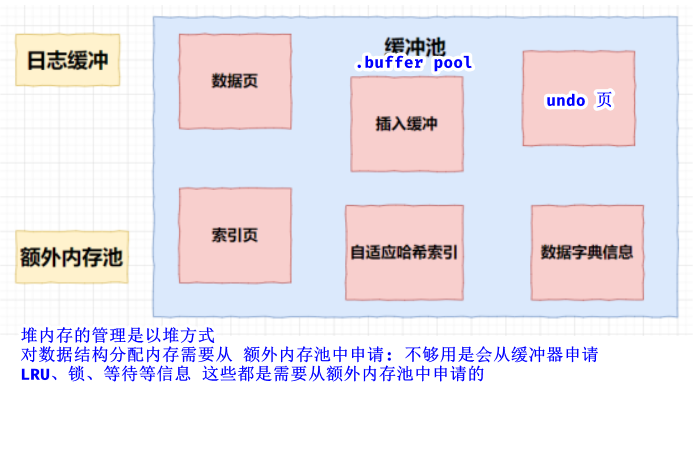
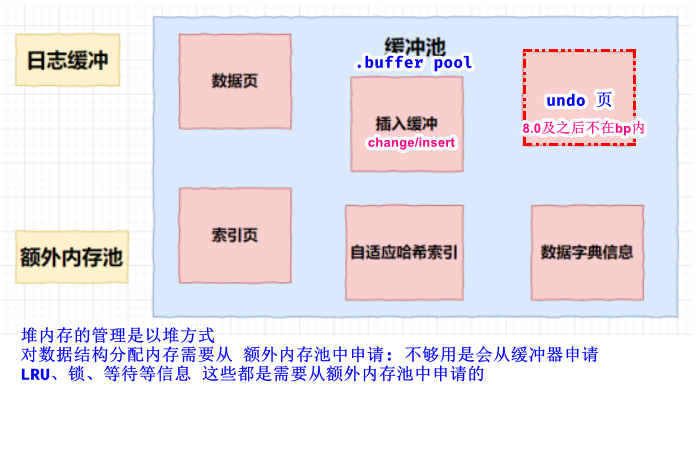
feat(mysql): add innodb and buffer note

diff --git a/language/mysql/v2/06.engine/buffer/bufferpool.md b/language/mysql/v2/06.engine/buffer/bufferpool.md
@@ -1,4 +1,4 @@
-## pool buffer
+## buffer pool
 
 ![avatar](/static/image/mysql/mysql-engine-layout.png)
 
@@ -8,26 +8,38 @@
 
    - 存放的是数据与索引: **索引并不是都在内存中**
    - 缓存页{16KB}{数据页和索引页}: bp 数据的基本单元 + `磁盘数据 按照数据页组织: 16KB`;
-   - 描述数据{800byte}: 所属表空间, 数据页的编号, bp 中的地址
-   - 相关的数据结构
+   - 描述数据{800byte}: 所属表空间, 数据页的编号, bp 中的地址, next free 节点, netx flush 节点, netx lru 节点
+   - 相关的数据结构: 都是双向链表
      1. Free 链表{双向}: 存放空闲缓存页
      2. 缓存页哈希表: 快速定位缓存页{key(表空间号+数据页号)-value(缓存页地址)}
+        ![avatar](/static/image/mysql/innodb-bp-free.png)
      3. Flush 链表: 存放脏页
      4. LRU 链表: 内存不够时淘汰方式 + 优化{数据冷热区分}
    - 预读机制: 调用存储引擎时将下次可能用到的数据和索引加载到 Buffer Pool
 
-2. 作用(加速-快): 查询操作(bp) + 更新(bp+change-buffer+redolog)
+2. LRU 流程(mysql 版本): 数据先进 old, 待满 1s 且被再次访问时移入 young 头部
+
+   - 默认按照 5:3 的比例把整个 LRU 链表分成了 young 区域和 old 区域
+   - 要访问数据页 P3, 由于 P3 在 young 区域, 将其移到链表头部, 变成状态 2
+   - 之后要访问一个新的不存在于当前链表的数据页, 这时候依然是淘汰掉数据页 Pm, 但是新插入的数据页 Px, 是**放在 LRU_old 处**
+   - 处于 old 区域的数据页, 每次被访问的时候都要做下面这个判断
+     1. 若这个数据页在 LRU 链表中存在的时间超过了 1 秒, 就把它移动到链表头部
+     2. 如果这个数据页在 LRU 链表中存在的时间短于 1 秒, 位置保持不变
+
+   ![avatar](/static/image/mysql/mysql-pb-o-y.png)
+
+3. 作用(加速-快): 查询操作(bp) + 更新(bp+change-buffer+redolog)
 
    - 读和写操作都可以先操作 bp 内存, 如果没有则到磁盘里去加载
    - 也就是说[change buffer]: `把xx更新为xx, 或插入xx, 修改内存数据{则变为脏页} + 写 log 文件{redo/bin}后即可提交, 不需要获取数据页`{唯一索引除外}
 
-3. 内存命中率(内部是热点数据): 99%+ 才是健康的
+4. 内存命中率(内部是热点数据): 99%+ 才是健康的
    ```sql
    show engine innodb status;
    show status like 'Innodb_buffer_pool_%';
    show status like  'innodb%read%';
    ```
-4. bp 参数及监控(https://hdm.console.aliyun.com/dbMonitor/MySQL#/performance/instance/rm-2zefr83ok57101uxm/detail)
+5. bp 参数及监控(https://hdm.console.aliyun.com/dbMonitor/MySQL#/performance/instance/rm-2zefr83ok57101uxm/detail)
 
    - 大小: `innodb_buffer_pool_size=3/4 * instance_mem` + 这个值一般很小需要重新设置
    - 个数: `innodb_buffer_pool_instances={LEAST(DBInstanceClassMemory/1G, 8)}`
@@ -70,17 +82,6 @@
 
    - pb 使用率: innodb_buffer_pool_pages_data / (innodb_buffer_pool_pages_data + innodb_buffer_pool_pages_free)
 
-5. LRU 流程(mysql 版本): 数据先进 old, 待满 1s 且被再次访问时移入 young 头部
-
-   - 默认按照 5:3 的比例把整个 LRU 链表分成了 young 区域和 old 区域
-   - 要访问数据页 P3, 由于 P3 在 young 区域, 将其移到链表头部, 变成状态 2
-   - 之后要访问一个新的不存在于当前链表的数据页, 这时候依然是淘汰掉数据页 Pm, 但是新插入的数据页 Px, 是**放在 LRU_old 处**
-   - 处于 old 区域的数据页, 每次被访问的时候都要做下面这个判断
-     1. 若这个数据页在 LRU 链表中存在的时间超过了 1 秒, 就把它移动到链表头部
-     2. 如果这个数据页在 LRU 链表中存在的时间短于 1 秒, 位置保持不变
-
-   ![avatar](/static/image/mysql/mysql-pb-o-y.png)
-
 6. 相关场景说明
 
    - update
@@ -88,6 +89,11 @@
    - query
    - delete
    - bnl 下大表冷数据: io/cpu/mem/pb`{数据量小于 3/8 时-会被放入 young 区 | 大于 3/8 时会导致 young 区数据不能正常淘汰}`
+
+7. 热点数据呗淘汰场景
+
+   - 预读机制: 是指 MySQL 加载数据页时, 可能会把它相邻的数据页一并加载进来(局部性原理)
+   - 全表扫描
 
 ---
 

diff --git a/language/mysql/v2/06.engine/innodb.md b/language/mysql/v2/06.engine/innodb.md
@@ -12,12 +12,16 @@
 
 3. 内容
 
-   - 后台线程: 7 个
-   - buffer pool: redolog/undolog/change buffer | 数据/缓存页 | 链表(LRU)
-   - additional memory pool
+   ![avatar](/static/image/mysql/mysql-innodb-architecture-5.7.png)
+   ![avatar](/static/image/mysql/mysql-innodb-architecture-8.png)
 
-   ![avatar](/static/image/mysql/mysql-innodb-memory.png)
-   ![avatar](/static/image/mysql/mysql-engine-layout.png)
+   - 后台线程: 7 个
+   - buffer pool: ahi | insert/change buffer | 数据/缓存页(数组字典信息) | 链表(LRU) | 其他信息(锁)
+   - redolog
+   - undolog
+   - additional memory pool
+     ![avatar](/static/image/mysql/mysql-innodb-memory.png)
+     ![avatar](/static/image/mysql/mysql-engine-layout.png)
 
 4. innodb flow
 
@@ -27,7 +31,7 @@
      2. 写 redolog 的 prepare 状态
      3. 写 binlog
      4. 调用存储引擎层, 提交事务, 将 redolog 修改为 commit 状态
-   - 所以缓冲池是占内存最大的一部分: 作用是存放各种数据的缓存{**索引页/数据页**/undo 页/插入缓冲/自适应哈希索引/InnoDB 存储的锁信息和数字字典信息}
+   - 所以缓冲池是占内存最大的一部分: 作用是存放各种数据的缓存{**索引页/数据页**/~~undo 页~~/插入缓冲/自适应哈希索引/InnoDB 存储的锁信息和数字字典信息}
 
 ### 后台线程
 
@@ -65,3 +69,10 @@
 7. _自适应哈希索引_
    - 哈希索引的查找复杂度仅为 O(1): 所以速度非常快, 常常用于连接操作
    - 自适应的意思是: InnoDB 存储引擎会监控对表上索引的查找, 如果观察到建立索引表可以带来速度的提升就建立哈希索引
+
+---
+
+## reference
+
+1. https://blog.csdn.net/qq_34408516/article/details/123296196
+2. https://dev.mysql.com/doc/refman/8.0/en/innodb-storage-engine.html

diff --git a/language/mysql/v2/01.basic/09.log.md b/language/mysql/v2/01.basic/09.log.md
@@ -7,8 +7,8 @@
 ![avatar](/static/image/mysql/log-mysql.png)
 
 1. [innodb]undo-log: idb 文件
-2. [innodb]redo-log
-3. [mysql-server]bin-log: 数据备份相关, 需要自己开启, 并指定模式[语句, **row**, mixed]
+2. [innodb]redo-log: **崩溃恢复能力**
+3. [mysql-server]bin-log: **群架构的数据一致性**, 数据备份相关, 需要自己开启, 并指定模式[语句, **row**, mixed]
 4. [mysql-server]slow-log: 慢查询日志, 需要自己开启
 5. [mysql-server]relay-log: slave
 6. [mysql-server]log-error`{log_error}`: 错误信息相关
@@ -78,6 +78,8 @@
    - redo log 并没有这个要求, redo log buffer 中的日志可以在其他事务提交的时候可以被一起写到磁盘中
    - redo log 是以 page 页格式存储的: page 格式, 天生就是共有的
 
+   ![avatar](/static/image/mysql/log-bin-redo-pc.png)
+
 ### [组提交](https://blog.csdn.net/weixin_34847632/article/details/113599866)
 
 1. 双一操作保证了数据安全, 但导致每个事务都需要等两次 io **刷盘**操作
@@ -143,7 +145,7 @@
 
 ### redo log vs binlog
 
-1. bin log 是 MYSQL 的, 无关存储引擎, 记录数据及表结构改变; redo log 只记录 innoDB 自身的事务日志
+1. bin log 是 mysql 的, 无关存储引擎, 记录数据及表结构改变; redo log 只记录 innoDB 自身的事务日志
 2. 次数
    - bin log 只在事务提交前写入到磁盘, 一个事务只写一次
    - 而在事务进行过程, 会有 redo log 不断写入磁盘

diff --git a/language/mysql/v2/05.server/log/readme.md b/language/mysql/v2/05.server/log/readme.md
@@ -1,6 +1,6 @@
 [toc]
 
-## binlog
+## binlog(归档日志)
 
 1. binlog: service 层的归档日志(表结构修改及数据修改), 可选择性打开的逻辑日志[记录语句逻辑]
 
@@ -8,16 +8,20 @@
    - 无限空间, 追加记录
    - 顺序写
    - _组提交机制_: 可以大幅度降低磁盘的 IOPS 消耗
+   - 核心作用: 数据备份、主备、主主、主从
 
 2. 指定模式
 
    - statement: 只记录引起数据变更的 SQL 语句 + 没有数据日志文件小 IO 消耗低, 性能好 + 但是可能引起数据不一致(函数)
-   - **row**: 记录每次操作的**源数据**与修改后的**目标数据** + 数据一致, 安全可靠,**并发**执行 + binlog 文件大, 性能消耗, 阅读性差
+   - **row**: 记录每次操作的**源数据**与修改后的**目标数据** + 数据一致, 安全可靠,**并发**执行 + binlog 文件大, 性能(io/cpu)消耗, 阅读性差
+
+     ![avatar](/static/image/mysql/log-server-row.png)
+
    - mixed: STATEMENT 跟 ROW 两种模式的混合使用, 只有涉及到函数等可能引起数据不一致的地方才会使用 row
 
 3. binlog cache{一片内存}
 
-   - 每个线程一个
+   - 每个线程一个: 不在 `buffer pool(inndodb 的)`
    - binlog_cache_size 设置单个线程被分配的内存
    - 如果超过了这个参数规定的大小, 就要暂存到磁盘
    - 每个线程有自己 binlog cache, 但是共用同一份 binlog 文件

diff --git a/language/postgres/06.json.md b/language/postgres/06.json.md
@@ -1,0 +1,41 @@
+## json 操作
+
+1. 创建一个 json 类型的字段
+   ```sql
+   create table table_name (id serial primary key, json_column json);
+   ```
+2. 在 json 类型的字段中插入数据
+   ```sql
+   insert into table_name (json_column) values ('{"key1": "value1", "key2": "value2"}');
+   ```
+3. 访问 json 对象中的键值
+   ```sql
+   -- 返回的是原类型
+   select json_column->'key1' from table_name;
+   -- 返回的就是纯字符串
+   select json_column->>'name' from table_name;
+   ```
+4. 获取 json 对象中的所有键
+   ```sql
+   select json_object_keys(json_column) from table_name;
+   ```
+5. 在 json 对象中添加一个新键值对
+   ```sql
+   -- 该语句将在 json 对象中添加一个名为 key3, 值为 value3 的键值对
+   update table_name set json_column = json_column || '{"key3": "value3"}'::json where id = 1;
+   ```
+6. 删除 json 对象中的一个键值对
+   ```sql
+   update table_name set json_column = json_column - 'key1' where id = 1;
+   ```
+7. 查询 json 对象中是否包含指定的键
+   ```sql
+   select * from table_name where json_column::json->'key_name' is not null;
+   ```
+8. 查询 json 数组中是否包含指定的键
+   ```sql
+    select * from employee where exists (
+      select 1 from json_array_elements(skills::json) as skill
+      where skill->>'key_name' is not null
+    );
+   ```
